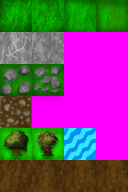
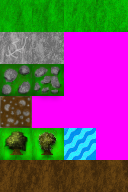
neue Grafiken

Changed region(s): [[0.0, 0.0, 1.0, 0.1875], [0.2812, 0.6562, 0.4688, 0.8438], [0.0, 0.6562, 0.25, 0.8125]]

diff --git a/ProjektInfromatik/src/matrizen/model/Spiel.java b/ProjektInfromatik/src/matrizen/model/Spiel.java
@@ -9,13 +9,14 @@ import java.awt.Toolkit;
 import java.awt.event.AWTEventListener;
 import java.awt.event.KeyEvent;
 
+import matrizen.core.DateiManager;
 import matrizen.core.Konfiguration;
 import matrizen.core.Richtung;
 import matrizen.model.elemente.Spieler;
 import matrizen.view.SpielFenster;
 
 public class Spiel implements AWTEventListener {
-	public static final short zeilen = (short) 5, spalten = (short) 5;
+	public static final short zeilen = (short) 12, spalten = (short) 12;
 	public static final float feldLaenge = SpielFenster.hoehe / zeilen;
 	private static Spiel instanz;
 	private Level level;

diff --git a/ProjektInfromatik/src/matrizen/core/DateiManager.java b/ProjektInfromatik/src/matrizen/core/DateiManager.java
@@ -162,23 +162,17 @@ public class DateiManager {
 			case WASSER:
 				return feldWasser;
 			case WIESE:
-				return feldGras0;
-			// return zufaelligeWiese();
+				return feldGras1;
 			case BAUM:
 				return feldBaum0;
-			// return zufaelligerBaum();
 			case STEINCHEN:
 				return feldSteinchen0;
-			// return zufaelligeSteinchen();
 			case SCHOTTER:
 				return feldSchotter0;
-			// return zufaelligerSchotter();
 			case STEIN:
 				return feldStein0;
-			// return zufaelligerStein();
 			case ERDE:
 				return feldErde0;
-			// return zufaelligeErde();
 			default:
 				return null;
 			}

diff --git a/ProjektInfromatik/src/matrizen/view/SpielFenster.java b/ProjektInfromatik/src/matrizen/view/SpielFenster.java
@@ -24,7 +24,7 @@ import matrizen.model.Spiel;
 public class SpielFenster extends JFrame {
 	private static final long serialVersionUID = 3327221473781403687L;
 	public static final Logger logger = Logger.getAnonymousLogger();
-	public static final int hoehe = getDefaultToolkit().getScreenSize().height / 2,
+	public static final int hoehe = getDefaultToolkit().getScreenSize().height / 4 * 3,
 			breite = hoehe/* getDefaultToolkit().getScreenSize().width / 3 */, ticks = 250;
 	private static SpielFenster instanz;
 	private BufferedImage bImg;

diff --git a/ProjektInfromatik/src/matrizen/model/Feld.java b/ProjektInfromatik/src/matrizen/model/Feld.java
@@ -60,12 +60,12 @@ public class Feld extends Grafisch {
 	}
 
 	public enum Typ {
-		WASSER(true),
 		WIESE(false),
+		ERDE(false),
+		WASSER(true),
 		BAUM(true),
 		STEIN(false),
 		STEINCHEN(true),
-		ERDE(false),
 		SCHOTTER(false),
 		BRUECKE(false);
 
